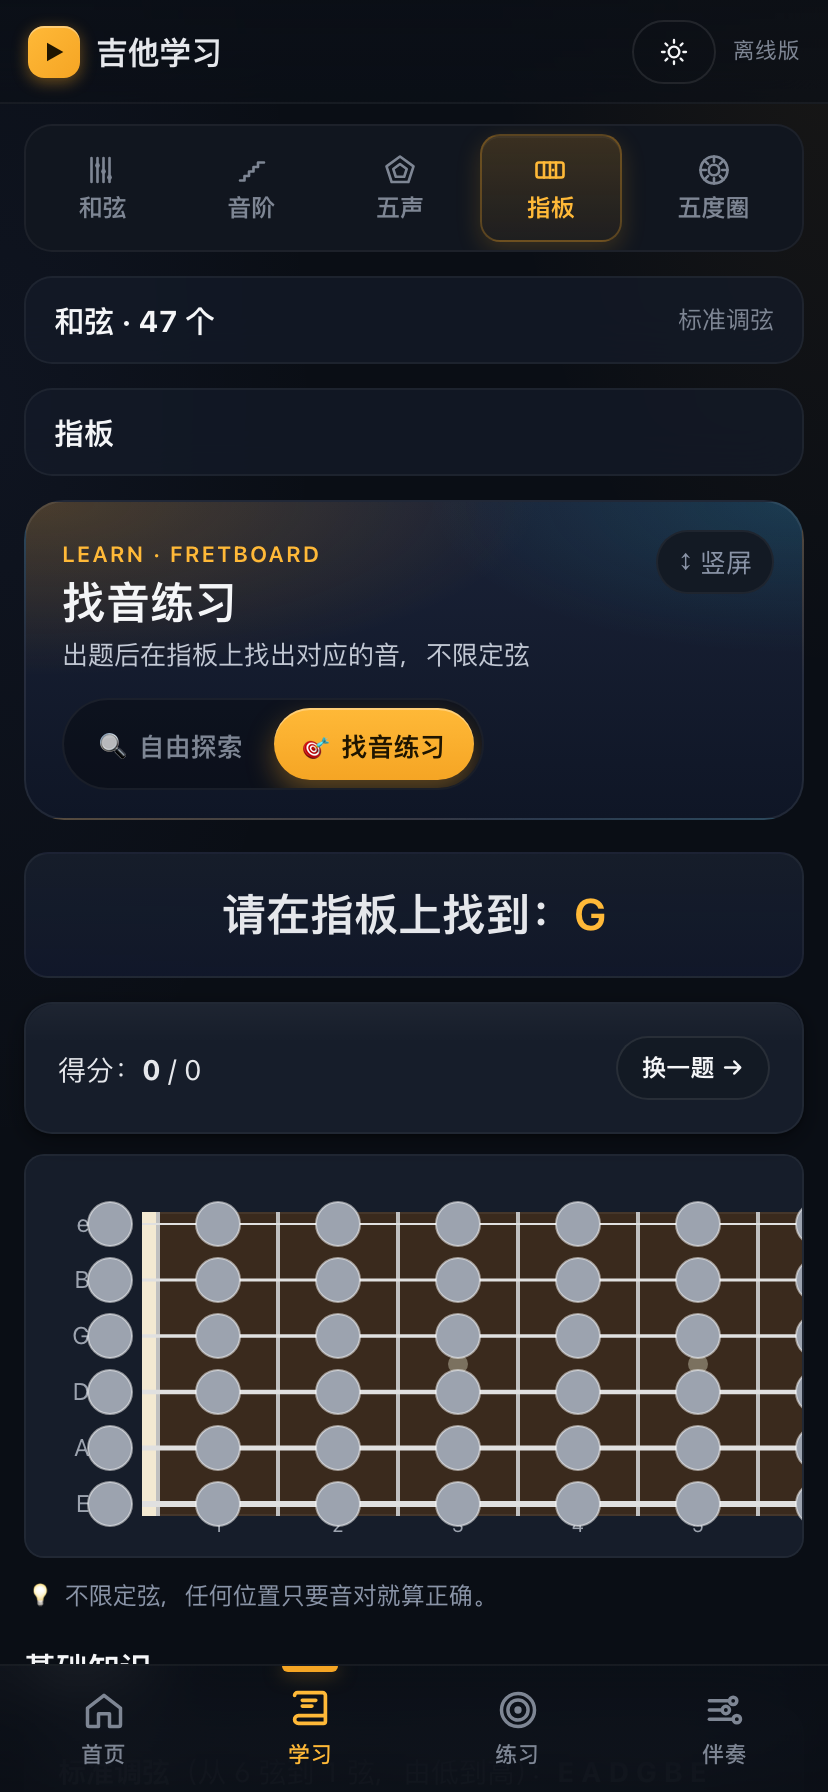
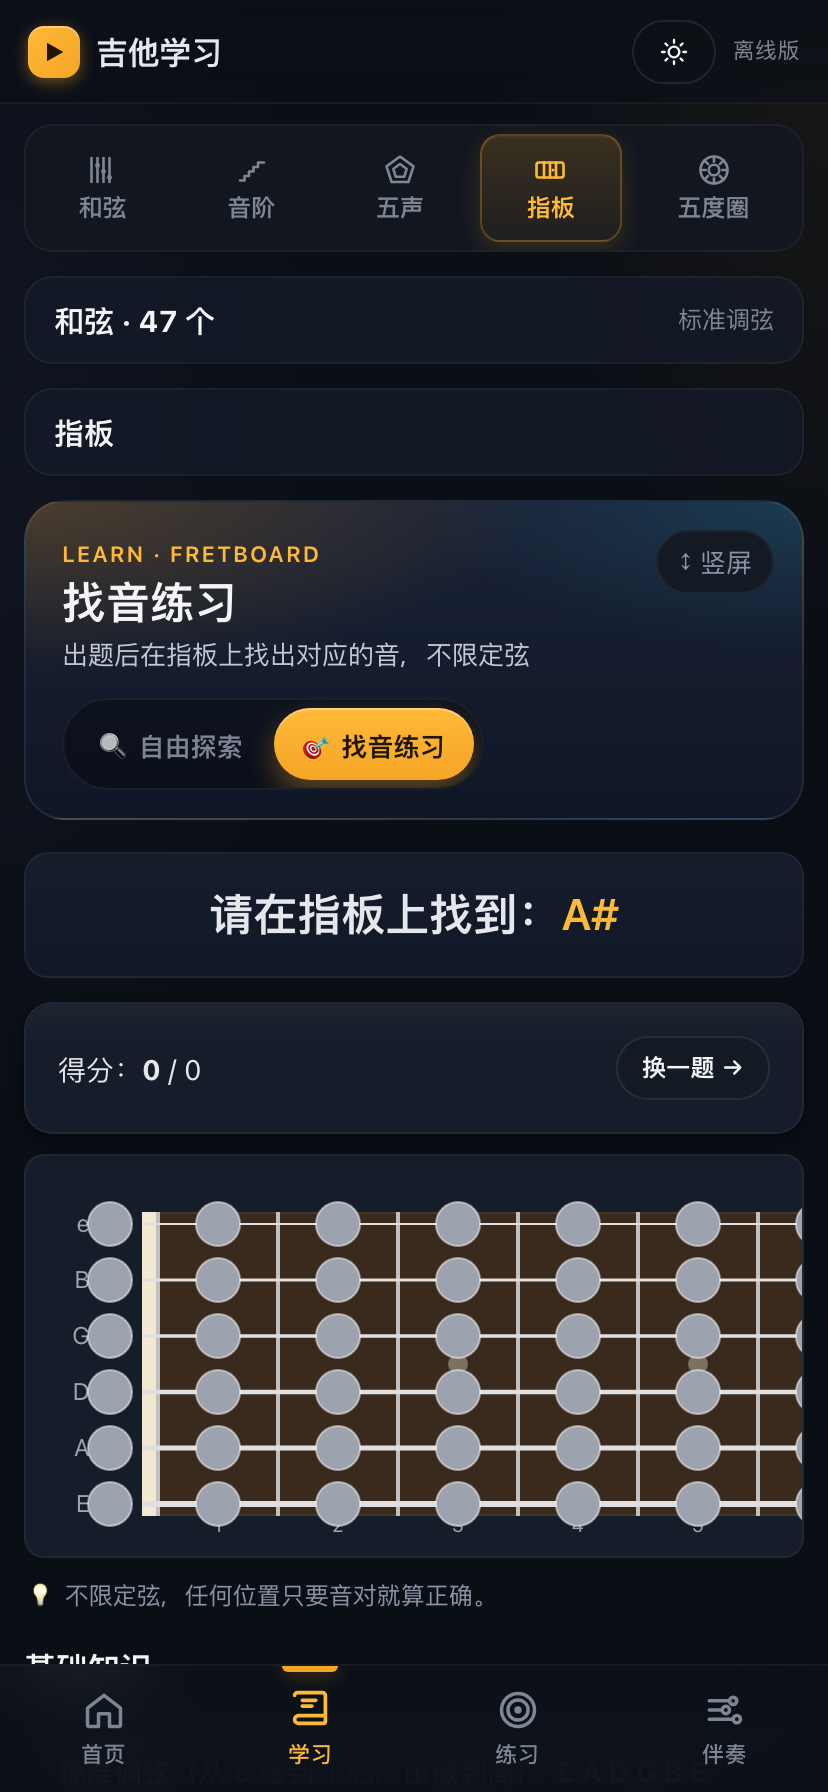
fix(pitch-train) + ui(home): 修音准训练两个 bug + 重做新手 CTA
== 音准训练修复 ==

bug#1 · 命中后卡住进不去下一题:
  handleResult 每帧调用, hit threshold 达到后 commitResult 被
  反复触发, 多次 setResults / 多次 setTimeout(1200) 推 idx
  → 越界 → currentQuestion undefined → UI 冻结.
  fix: committedRef 标记, commitResult 首句 return 阻断重入;
       handleResult 首句也 return 不再积累 hitStartRef.
       新题 useEffect(currentIdx) 重置标记.

bug#2 · 示范音 / playTarget 后直接判定准:
  synth.playMidi 自己播的目标音被 mic 录回, freq≈target
  cents≈0 → hit threshold 500ms 立即满足 → 假命中.
  fix: muteUntilRef = now + 1850ms (覆盖 1.6s 衰减 + 余量);
       playTarget 时同步重置 hit/near/progress 显示.

== 首页新手 CTA 重做 ==

之前 3 个按钮挤 2 行 (每日 5 分钟 / 从调音开始 / 我是新手)
新手看着一头雾水. 现在:
- 检测 !hasAnyRecord → 主 CTA 换成单按钮全宽 "我是新手·从调音开始 →"
  副 ghost "直接看每日 5 分钟套餐" 给老用户级新手
- 回头客 → 维持原 每日 5 分钟 + 继续练习 双按钮
- greeting "继续练琴" → "欢迎" (空数据下不合理)
- h1 "今日练什么" → "从这里开始" (空数据下更合适)
- helper 文案改成 "第一次来? 3 分钟带你跑通：调音→听音→跟弹一首"

Changed region(s): [[0.2415, 0.5, 0.7548, 0.5312]]

diff --git a/src/pages/HomePage.tsx b/src/pages/HomePage.tsx
@@ -61,7 +61,7 @@ function useInstallInfo() {
 }
 
 function getGreeting(summary: ReturnType<typeof getPracticeSummary>) {
-  if (!summary.hasAnyRecord) return '继续练琴';
+  if (!summary.hasAnyRecord) return '欢迎';
   const hour = new Date().getHours();
   if (hour < 11) return '早上好';
   if (hour < 18) return '下午好';
@@ -70,7 +70,7 @@ function getGreeting(summary: ReturnType<typeof getPracticeSummary>) {
 
 function getPrimaryAction(summary: ReturnType<typeof getPracticeSummary>) {
   if (!summary.hasAnyRecord) {
-    return { label: '从调音开始', helper: '先把琴调准，再进入今天的练习。' };
+    return { label: '从调音开始', helper: '第一次来? 3 分钟带你跑通：调音 → 听音 → 跟弹一首。' };
   }
   if (summary.hasTodayRecord) {
     return { label: '继续今天练习', helper: '你已经开始了，继续保持手感。' };
@@ -189,7 +189,7 @@ function HomePageInner() {
     <div className="home-layout">
       <section className="hero-card">
         <div className="hero-topline">{greeting}</div>
-        <h1>今日练什么</h1>
+        <h1>{summary.hasAnyRecord ? '今日练什么' : '从这里开始'}</h1>
         <p>{primaryAction.helper}</p>
 
         <div className="hero-stats">
@@ -207,22 +207,36 @@ function HomePageInner() {
           </div>
         </div>
 
-        <div className="hero-actions">
-          <button className="btn btn-primary hero-btn" onClick={() => navigate('/practice/daily')}>
-            {dailySet.completedCount > 0 ? '🔁 再来一次套餐' : '▶ 每日 5 分钟'}
-          </button>
-          <button className="btn btn-ghost hero-btn" onClick={() => navigate('/practice')}>
-            {primaryAction.label}
-          </button>
-        </div>
-        <div className="hero-actions hero-actions-secondary">
-          <button
-            className="btn btn-ghost hero-btn"
-            onClick={() => navigate('/practice?start=newbie')}
-          >
-            我是新手，带我开始
-          </button>
-        </div>
+        {summary.hasAnyRecord ? (
+          <div className="hero-actions">
+            <button className="btn btn-primary hero-btn" onClick={() => navigate('/practice/daily')}>
+              {dailySet.completedCount > 0 ? '再来一次套餐' : '每日 5 分钟'}
+            </button>
+            <button className="btn btn-ghost hero-btn" onClick={() => navigate('/practice')}>
+              {primaryAction.label}
+            </button>
+          </div>
+        ) : (
+          <>
+            <div className="hero-actions">
+              <button
+                className="btn btn-primary hero-btn newbie-cta"
+                onClick={() => navigate('/practice?start=newbie')}
+              >
+                我是新手 · 从调音开始
+                <Icon name="arrow-right" size={16} strokeWidth={2.2} style={{ marginLeft: 6 }} />
+              </button>
+            </div>
+            <div className="hero-actions hero-actions-secondary">
+              <button
+                className="btn btn-ghost hero-btn"
+                onClick={() => navigate('/practice/daily')}
+              >
+                直接看每日 5 分钟套餐
+              </button>
+            </div>
+          </>
+        )}
 
         {newbieActivated && (
           <div className="hero-inline-tip">已为你打开新手路径入口，去练习中心从调音器开始。</div>

diff --git a/src/pages/PitchTrainerPage.tsx b/src/pages/PitchTrainerPage.tsx
@@ -130,6 +130,10 @@ export default function PitchTrainerPage() {
   const nearStartRef = useRef<number>(0);
   const bestCentsRef = useRef<number>(999);
   const recordedRef = useRef<boolean>(false);
+  /** 已提交过当前题 — 防止 commitResult 在 setTimeout 1200ms 期间被 handleResult 反复触发 */
+  const committedRef = useRef<boolean>(false);
+  /** 示范音播放期间静音麦克风检测, 否则 synth 自己的目标音会被录回判定为命中 */
+  const muteUntilRef = useRef<number>(0);
 
   const currentQuestion = questions[currentIdx];
 
@@ -140,6 +144,18 @@ export default function PitchTrainerPage() {
   // 命中处理 — 每帧调用
   const handleResult = useCallback((res: PitchResult | null) => {
     if (!currentQuestion) return;
+    // R67 fix#2: 示范音 / 播放期间静音麦克风检测, 否则 synth 自己的目标音被录回判命中
+    if (performance.now() < muteUntilRef.current) {
+      setCurrentCents(null);
+      setCurrentNote('-');
+      setCurrentMidi(null);
+      hitStartRef.current = 0;
+      nearStartRef.current = 0;
+      setHitProgress(0);
+      return;
+    }
+    // R67 fix#1: 已 commit 过当前题, 直接忽略后续帧, 防止重复 setResults / setTimeout 越界
+    if (committedRef.current) return;
     if (!res || res.rms < MIN_RMS) {
       setCurrentCents(null);
       setCurrentNote('-');
@@ -188,6 +204,9 @@ export default function PitchTrainerPage() {
 
   const commitResult = useCallback((score: 0 | 0.5 | 1) => {
     if (!currentQuestion) return;
+    // R67 fix#1: 整个生命周期只能 commit 一次, 第二次直接 return
+    if (committedRef.current) return;
+    committedRef.current = true;
     if (score === 1) vibrate(20);
     else if (score === 0.5) vibrate(10);
     else vibratePattern([30, 50, 30]);
@@ -211,6 +230,7 @@ export default function PitchTrainerPage() {
         bestCentsRef.current = 999;
         hitStartRef.current = 0;
         nearStartRef.current = 0;
+        committedRef.current = false;  // R67: 新题允许 commit
         questionStartRef.current = performance.now();
         setHitProgress(0);
         setTaskFeedback('idle');
@@ -245,6 +265,8 @@ export default function PitchTrainerPage() {
     bestCentsRef.current = 999;
     hitStartRef.current = 0;
     nearStartRef.current = 0;
+    committedRef.current = false;  // R67: 新一组从未 commit 开始
+    muteUntilRef.current = 0;
     questionStartRef.current = performance.now();
     startTimeRef.current = performance.now();
     recordedRef.current = false;
@@ -288,12 +310,25 @@ export default function PitchTrainerPage() {
     recordSession('pitch-train', Math.round(totalScore * 10), TOTAL_QUESTIONS * 10, secs);
   }, [step, results]);
 
-  // 播放目标音示范
+  // 播放目标音示范 — 期间静音麦克风检测, 避免录回自己
   const playTarget = useCallback(async () => {
     if (!currentQuestion) return;
     await synth.unlock();
+    // synth.playMidi 默认衰减 ~1.6s, 加 250ms 余量覆盖回响 + 麦克风延迟
+    muteUntilRef.current = performance.now() + 1850;
+    hitStartRef.current = 0;
+    nearStartRef.current = 0;
+    setHitProgress(0);
+    setCurrentCents(null);
+    setCurrentNote('-');
     synth.playMidi(currentQuestion.midi, 1.6);
   }, [currentQuestion]);
+
+  // 进入新题时重置 committed 标记 + 清 mute (上一题 playTarget 余音可能还没到期)
+  useEffect(() => {
+    committedRef.current = false;
+    muteUntilRef.current = 0;
+  }, [currentIdx]);
 
   // 自动播放目标音（每题开始时）
   useEffect(() => {

diff --git a/src/styles/global.css b/src/styles/global.css
@@ -1954,6 +1954,22 @@ input, select, textarea { font-size: 16px; }
 .hero-actions-secondary { margin-top: 8px; }
 .hero-actions-secondary .hero-btn { flex: 0 1 auto; }
 
+/* 新手 CTA — 单按钮占整行 + arrow 强调动作 */
+.newbie-cta {
+  flex: 1 1 100%;
+  min-height: 52px;
+  font-size: var(--fs-lg);
+  font-weight: var(--fw-bold);
+  letter-spacing: 0.01em;
+  display: inline-flex;
+  align-items: center;
+  justify-content: center;
+}
+.newbie-cta svg {
+  transition: transform .25s var(--ease-spring);
+}
+.newbie-cta:hover svg { transform: translateX(3px); }
+
 .daily-progress {
   display: grid;
   grid-template-columns: repeat(3, minmax(0, 1fr));